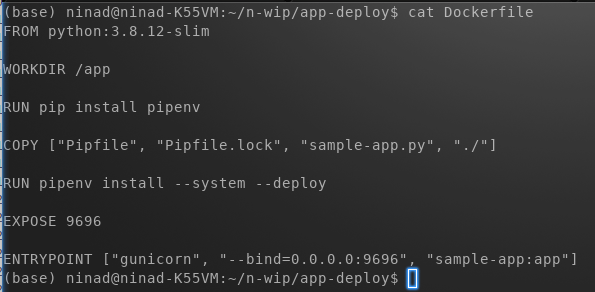
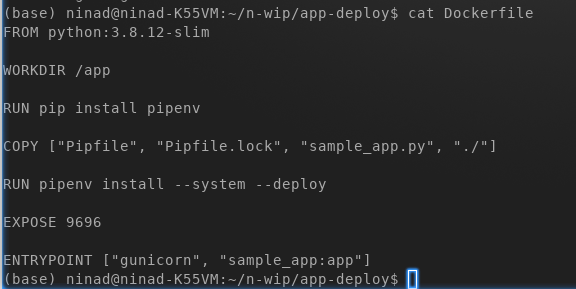
updated heroku docker

diff --git a/how-to-use-heroku.md b/how-to-use-heroku.md
@@ -93,6 +93,14 @@ Create Dockerfile (filename should be exactly this) in the same directory with a
 
 Below example shows, python:3.8.12-slim being used as base image, installing pipenv, then copying the Pipfile and Pipfile.lock that specify python dependency packages, installing the dependency packages using pipenv, then copying the python code for the web app, followed by defining port to be exposed and entrypoint command that should get run when docker container starts.
 
+**Note:** One very important point I struggled and understood after a long time is that for gunicorn do not use anything like 
+
+```ENTRYPOINT ["gunicorn", "--bind=0.0.0.0:9696", "sample_app:app"]```
+
+Although using like this worked when running docker container locally on my machine, however failed when deployed to Heroku. Will try to investigate further and update once I know better. Meantime use something like
+
+```ENTRYPOINT ["gunicorn", "sample_app:app"]```
+
 ![Create Dockerfile](images/hd-2-dockerfile.png)
 
 **c. Deploy to Heroku as docker container**
